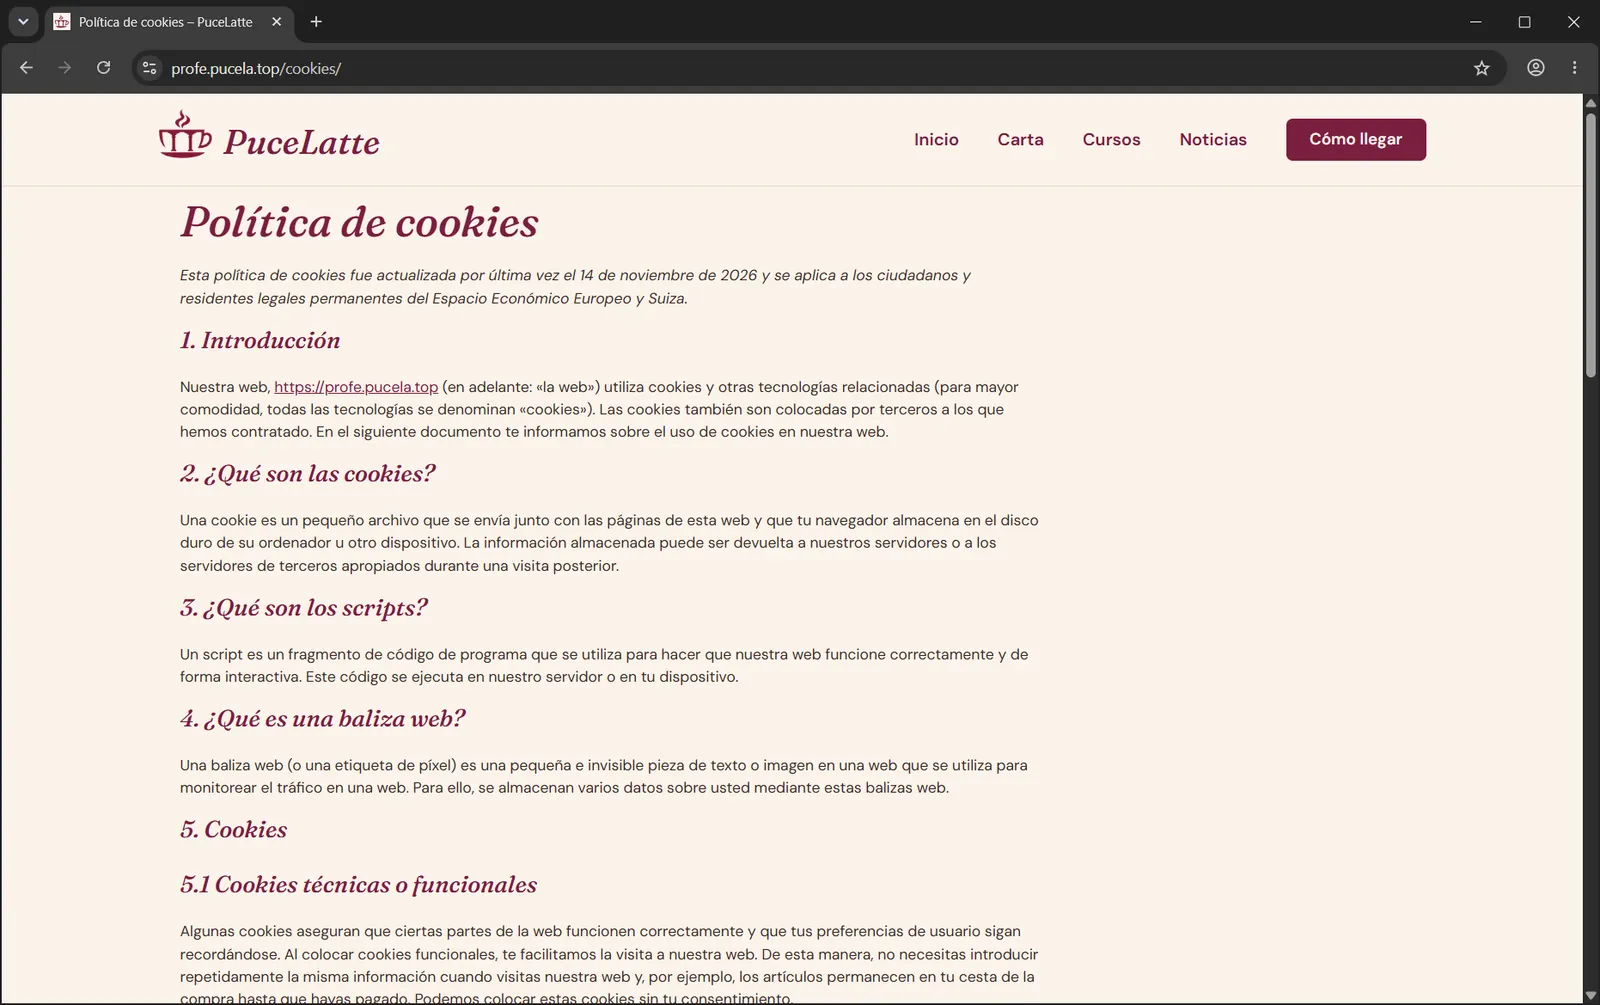
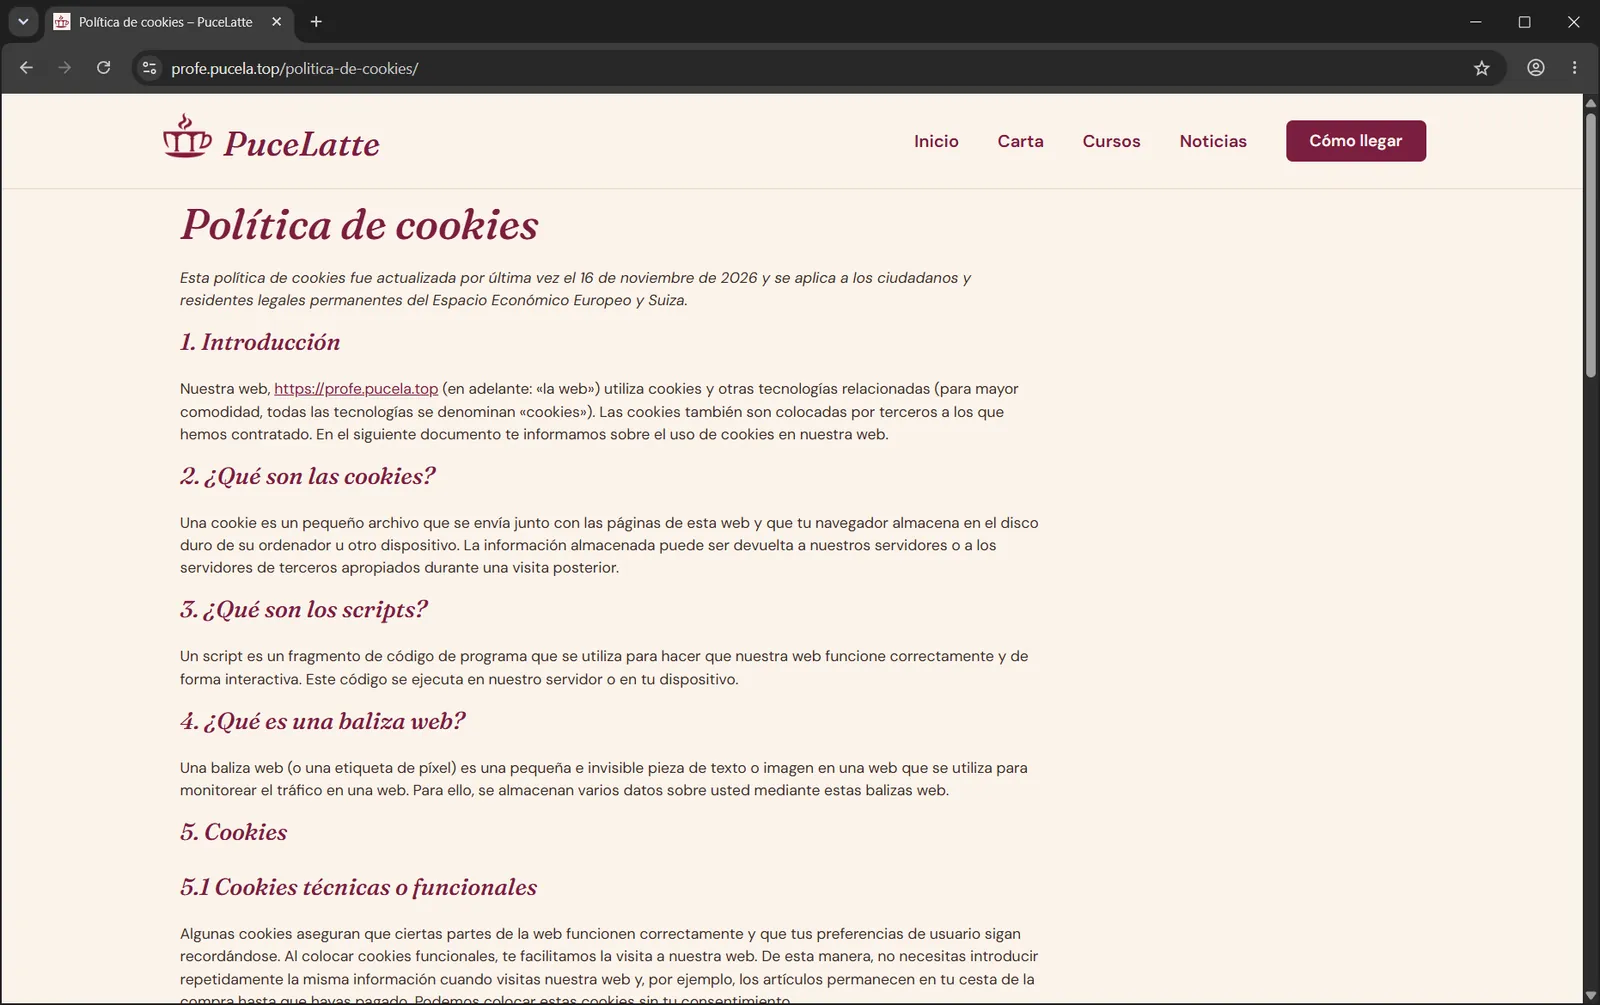
UT03 · 63 y 75: captura de la política de cookies con su dirección nueva y notas al día

diff --git a/ut03/index.html b/ut03/index.html
@@ -1685,7 +1685,7 @@ Usa solo los datos de la entrevista; si te falta alguno, escribe [PREGUNTAR].</p
 
 <!-- 75 UpdraftPlus -->
 <section data-label="3.6 · Copia y restaura tu web con UpdraftPlus" data-seccion="3.6" style="padding:56px var(--pad-x) 52px;display:flex;flex-direction:column">
-  <aside class="notas">Guía paso a paso de UpdraftPlus, hecha a mano en verifica.pucela.top el 16/11/2026 con UpdraftPlus 1.26.14. La guía tiene 32 pasos en cinco tramos: Instalar (1 a 6), Copia (7 a 10), Descargar (11 a 16), Restaurar (17 a 25) y Programar (26 a 32). Empieza con «Una copia de seguridad y sus partes», que enseña la fila de una copia terminada con cinco partes numeradas. Cada tramo empieza con una entrada, sigue con sus pasos y acaba con una comprobación. En la presentación, <b>→ avanza una pantalla</b> y, después de la última comprobación, pasa a la diapositiva siguiente. Clic en la captura para verla entera. UpdraftPlus tiene su propio menú, abajo del todo; no está en Ajustes. Al activarlo no sale nada: la bienvenida «Welcome to UpdraftPlus!» sale al abrir su menú y se sale con «Exit setup», no con «Empezar». El aviso «¿Quieres dar forma al futuro de la creación web?» es de Elementor (datos de uso) y sale en las pantallas del panel hasta que se contesta. El aviso verde «Bienvenido a UpdraftPlus!» vuelve aunque se cierre. Las actualizaciones automáticas de UpdraftPlus se activan, como pide la 68. En verifica la copia tarda unos 15 s y pesa 56 MB (base de datos 0,35 MB, plugins 34 MB, temas 8,4 MB, subidas 8,6 MB y otros 2 MB). En PuceLatte pesa 133 MB, sobre todo por las subidas (73 MB), y lleva una sexta parte, «Plugins imprescindibles» (mu-plugins, 0,5 KB). Las partes se bajan una a una con «Descargar a tu equipo»; cerrar cada recuadro con la × evita que la tabla baje y que «Eliminar de tu servidor web» quede debajo del ratón. Ctrl+J abre el historial de descargas de Chrome (en Edge también). La prueba de restauración cambia el título de una noticia con Edición rápida y restaura solo la base de datos: tarda unos segundos, no deja carpetas antiguas y la sesión sigue abierta. <b>La restauración devuelve toda la base de datos al momento de la copia</b>: se pierde lo hecho después en cualquier parte de la web (páginas, envíos del formulario, comentarios). Restaurar las cinco partes (botón «Restaurar toda la web») se probó en verifica el 17/11/2026 con la web rota a propósito (una página borrada para siempre, una noticia en la papelera, el título del sitio cambiado, bbPress borrado y otro tema activo): tarda unos 10 s y la web queda igual que en la copia. La base de datos restaurada no tiene la sesión con la que se entró después de la copia: al pulsar «Volver a la configuración de UpdraftPlus» sale la pantalla de Acceder, y se entra con la contraseña del día de la copia. Deja las carpetas <code>-old</code> (plugins 161 MB, temas 11 MB e idiomas 9 MB; las subidas no dejan carpeta) hasta que se pulsa «Borrar las carpetas antiguas»; el aviso sale arriba al volver a UpdraftPlus y sigue ahí hasta que se pulsa. La tabla enseña después una segunda fila con la copia anterior: la base de datos guarda el historial de copias de antes de que «retener 1» borrara esa copia. Sus archivos ya no existen: «Restaurar» en esa fila da «No hay presente una copia local». «Volver al explorar la carpeta local…» no la quita. La fila se va con la copia siguiente, también una hecha a mano. El apartado «Si el panel de WordPress no abre» se probó también el 17/11/2026, con la cuenta de verifica vaciada (carpeta web y base de datos): WordPress 7.1 de es.wordpress.org instalado a mano como en la Parte 1 (4.010 archivos por SFTP en 28 s), usuario «nuevo» en el asistente, UpdraftPlus del tramo 1 y los cinco archivos con «Seleccionar archivos» (también se pueden soltar en el recuadro; en clase la subida de 66 MB tardará más). La copia sale sola en la tabla. Al restaurar avisa «Estás importando desde una versión más reciente de WordPress (7.1.4) a una más antigua (7.1)»: se restaura igual, en unos 15 s, y WordPress no pide actualizar la base de datos. Después sale la pantalla de Acceder y se entra con el usuario de la copia (alumnov); «nuevo» desaparece. Las carpetas <code>-old</code> son las del WordPress nuevo (unos 57 MB) y vuelve a salir la fila de la copia anterior. Con «Actualizar a la versión 7.1.4» queda igual que antes de perderla: páginas, plantillas, foro, Complianz, formulario, CSS adicional, ajustes de UpdraftPlus (Weekly, retener 1) y actualizaciones automáticas de los plugins. Los enlaces permanentes funcionan sin volver a guardarlos. La copia de UpdraftPlus no lleva <code>wp-config.php</code>: lo añadido en la 69 (<code>DISALLOW_FILE_EDIT</code>) hay que volver a ponerlo. La programación va después de la prueba de restauración. Weekly en archivos y en base de datos, y retener 1: la cuota es de 1 GB. Con retener 1, cada copia nueva, también una hecha a mano, borra la anterior del servidor; por eso se baja. La primera copia programada sale para el día siguiente. En profe.pucela.top, UpdraftPlus tiene retener 1 y 1 y ningún almacenamiento remoto, como la guía, pero la programación está en Manual y las actualizaciones automáticas, desactivadas. El almacenamiento remoto (Google Drive, Dropbox…) se deja sin elegir: los alumnos no conectan cuentas personales. La copia fuera del servidor es la que bajan a su ordenador.</aside>
+  <aside class="notas">Guía paso a paso de UpdraftPlus, hecha a mano en verifica.pucela.top el 16/11/2026 con UpdraftPlus 1.26.14. La guía tiene 32 pasos en cinco tramos: Instalar (1 a 6), Copia (7 a 10), Descargar (11 a 16), Restaurar (17 a 25) y Programar (26 a 32). Empieza con «Una copia de seguridad y sus partes», que enseña la fila de una copia terminada con cinco partes numeradas. Cada tramo empieza con una entrada, sigue con sus pasos y acaba con una comprobación. En la presentación, <b>→ avanza una pantalla</b> y, después de la última comprobación, pasa a la diapositiva siguiente. Clic en la captura para verla entera. UpdraftPlus tiene su propio menú, abajo del todo; no está en Ajustes. Al activarlo no sale nada: la bienvenida «Welcome to UpdraftPlus!» sale al abrir su menú y se sale con «Exit setup», no con «Empezar». El aviso «¿Quieres dar forma al futuro de la creación web?» es de Elementor (datos de uso) y sale en las pantallas del panel hasta que se contesta. El aviso verde «Bienvenido a UpdraftPlus!» vuelve aunque se cierre. Las actualizaciones automáticas de UpdraftPlus se activan, como pide la 68. En verifica la copia tarda unos 15 s y pesa 56 MB (base de datos 0,35 MB, plugins 34 MB, temas 8,4 MB, subidas 8,6 MB y otros 2 MB). En PuceLatte pesa 133 MB, sobre todo por las subidas (73 MB), y lleva una sexta parte, «Plugins imprescindibles» (mu-plugins, 0,5 KB). Las partes se bajan una a una con «Descargar a tu equipo»; cerrar cada recuadro con la × evita que la tabla baje y que «Eliminar de tu servidor web» quede debajo del ratón. Ctrl+J abre el historial de descargas de Chrome (en Edge también). La prueba de restauración cambia el título de una noticia con Edición rápida y restaura solo la base de datos: tarda unos segundos, no deja carpetas antiguas y la sesión sigue abierta. <b>La restauración devuelve toda la base de datos al momento de la copia</b>: se pierde lo hecho después en cualquier parte de la web (páginas, envíos del formulario, comentarios). Restaurar las cinco partes (botón «Restaurar toda la web») se probó en verifica el 17/11/2026 con la web rota a propósito (una página borrada para siempre, una noticia en la papelera, el título del sitio cambiado, bbPress borrado y otro tema activo): tarda unos 10 s y la web queda igual que en la copia. La base de datos restaurada no tiene la sesión con la que se entró después de la copia: al pulsar «Volver a la configuración de UpdraftPlus» sale la pantalla de Acceder, y se entra con la contraseña del día de la copia. Deja las carpetas <code>-old</code> (plugins 161 MB, temas 11 MB e idiomas 9 MB; las subidas no dejan carpeta) hasta que se pulsa «Borrar las carpetas antiguas»; el aviso sale arriba al volver a UpdraftPlus y sigue ahí hasta que se pulsa. La tabla enseña después una segunda fila con la copia anterior: la base de datos guarda el historial de copias de antes de que «retener 1» borrara esa copia. Sus archivos ya no existen: «Restaurar» en esa fila da «No hay presente una copia local». «Volver al explorar la carpeta local…» no la quita. La fila se va con la copia siguiente, también una hecha a mano. El apartado «Si el panel de WordPress no abre» se probó también el 17/11/2026, con la cuenta de verifica vaciada (carpeta web y base de datos): WordPress 7.1 de es.wordpress.org instalado a mano como en la Parte 1 (4.010 archivos por SFTP en 28 s), usuario «nuevo» en el asistente, UpdraftPlus del tramo 1 y los cinco archivos con «Seleccionar archivos» (también se pueden soltar en el recuadro; en clase la subida de 66 MB tardará más). La copia sale sola en la tabla. Al restaurar avisa «Estás importando desde una versión más reciente de WordPress (7.1.4) a una más antigua (7.1)»: se restaura igual, en unos 15 s, y WordPress no pide actualizar la base de datos. Después sale la pantalla de Acceder y se entra con el usuario de la copia (alumnov); «nuevo» desaparece. Las carpetas <code>-old</code> son las del WordPress nuevo (unos 57 MB) y vuelve a salir la fila de la copia anterior. Con «Actualizar a la versión 7.1.4» queda igual que antes de perderla: páginas, plantillas, foro, Complianz, formulario, CSS adicional, ajustes de UpdraftPlus (Weekly, retener 1) y actualizaciones automáticas de los plugins. Los enlaces permanentes funcionan sin volver a guardarlos. La copia de UpdraftPlus no lleva <code>wp-config.php</code>: lo añadido en la 69 (<code>DISALLOW_FILE_EDIT</code>) hay que volver a ponerlo. La programación va después de la prueba de restauración. Weekly en archivos y en base de datos, y retener 1: la cuota es de 1 GB. Con retener 1, cada copia nueva, también una hecha a mano, borra la anterior del servidor; por eso se baja. La primera copia programada sale para el día siguiente. En profe.pucela.top, UpdraftPlus está como la guía desde el 16/11/2026: copias cada semana (Weekly) de archivos y de base de datos, retener 1 y 1, ningún almacenamiento remoto y las actualizaciones automáticas del plugin activadas. El almacenamiento remoto (Google Drive, Dropbox…) se deja sin elegir: los alumnos no conectan cuentas personales. La copia fuera del servidor es la que bajan a su ordenador.</aside>
   <p style="font-size:var(--type-small);font-weight:600;color:var(--blue);text-transform:uppercase;letter-spacing:.06em">Parte 3</p>
   <h2 style="font-size:var(--type-title);font-weight:800;line-height:1.1;margin-top:12px;color:var(--navy)">Copia y restaura tu web con UpdraftPlus</h2>
   <div class="guia" data-guia="updraft" data-base="img/guias/" style="flex:1;margin-top:24px;min-height:0"></div>
